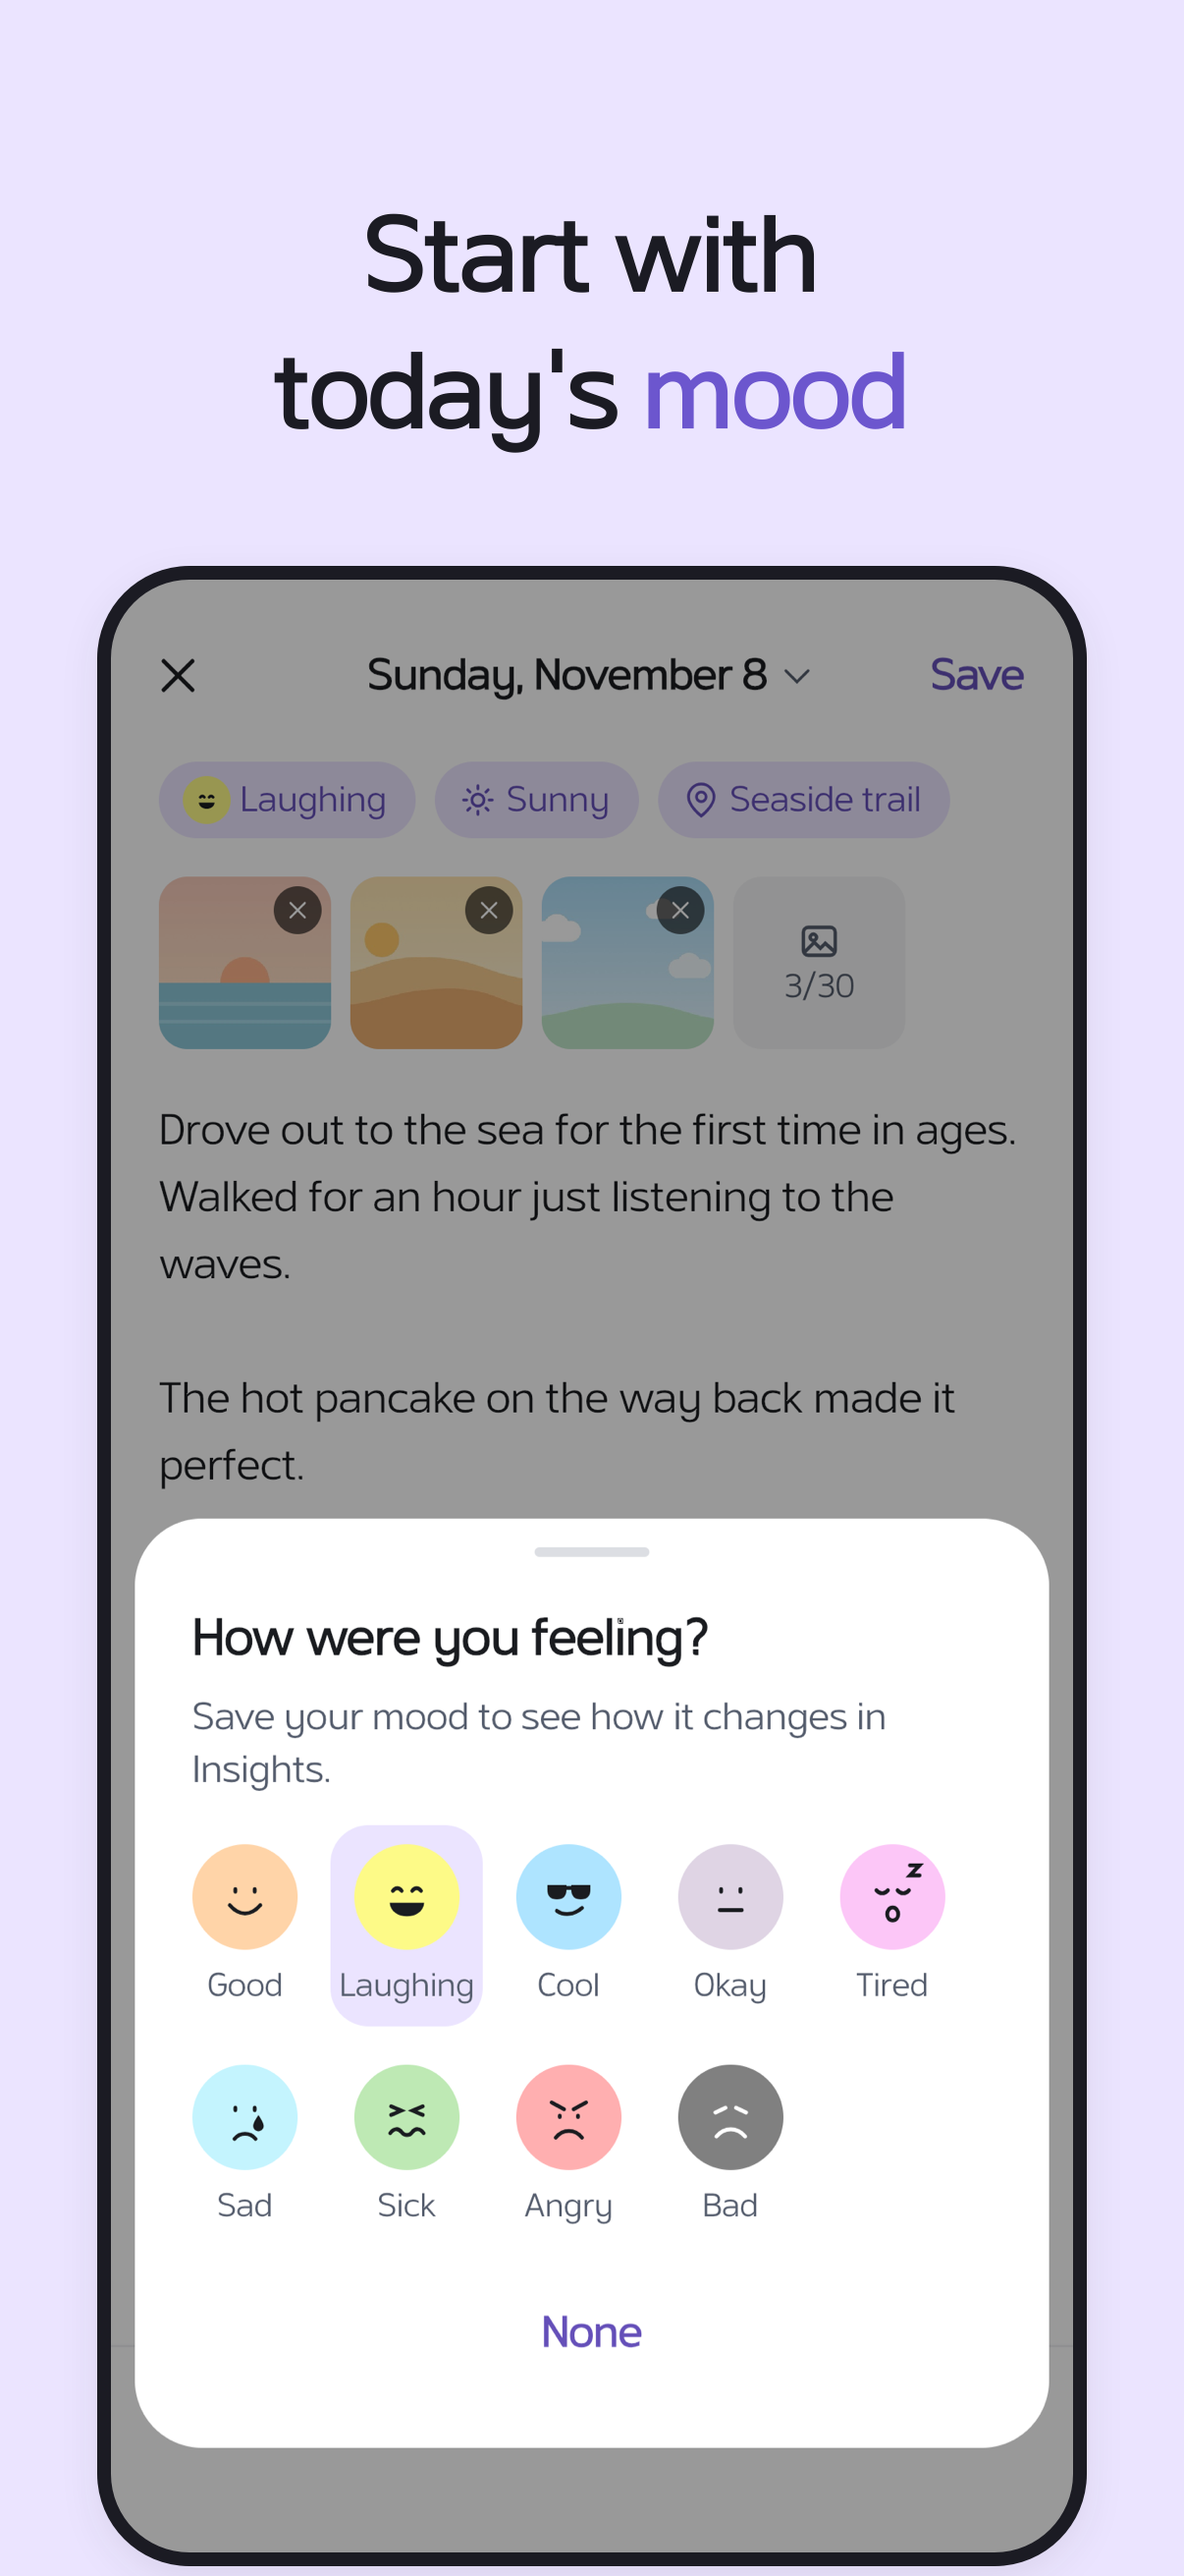
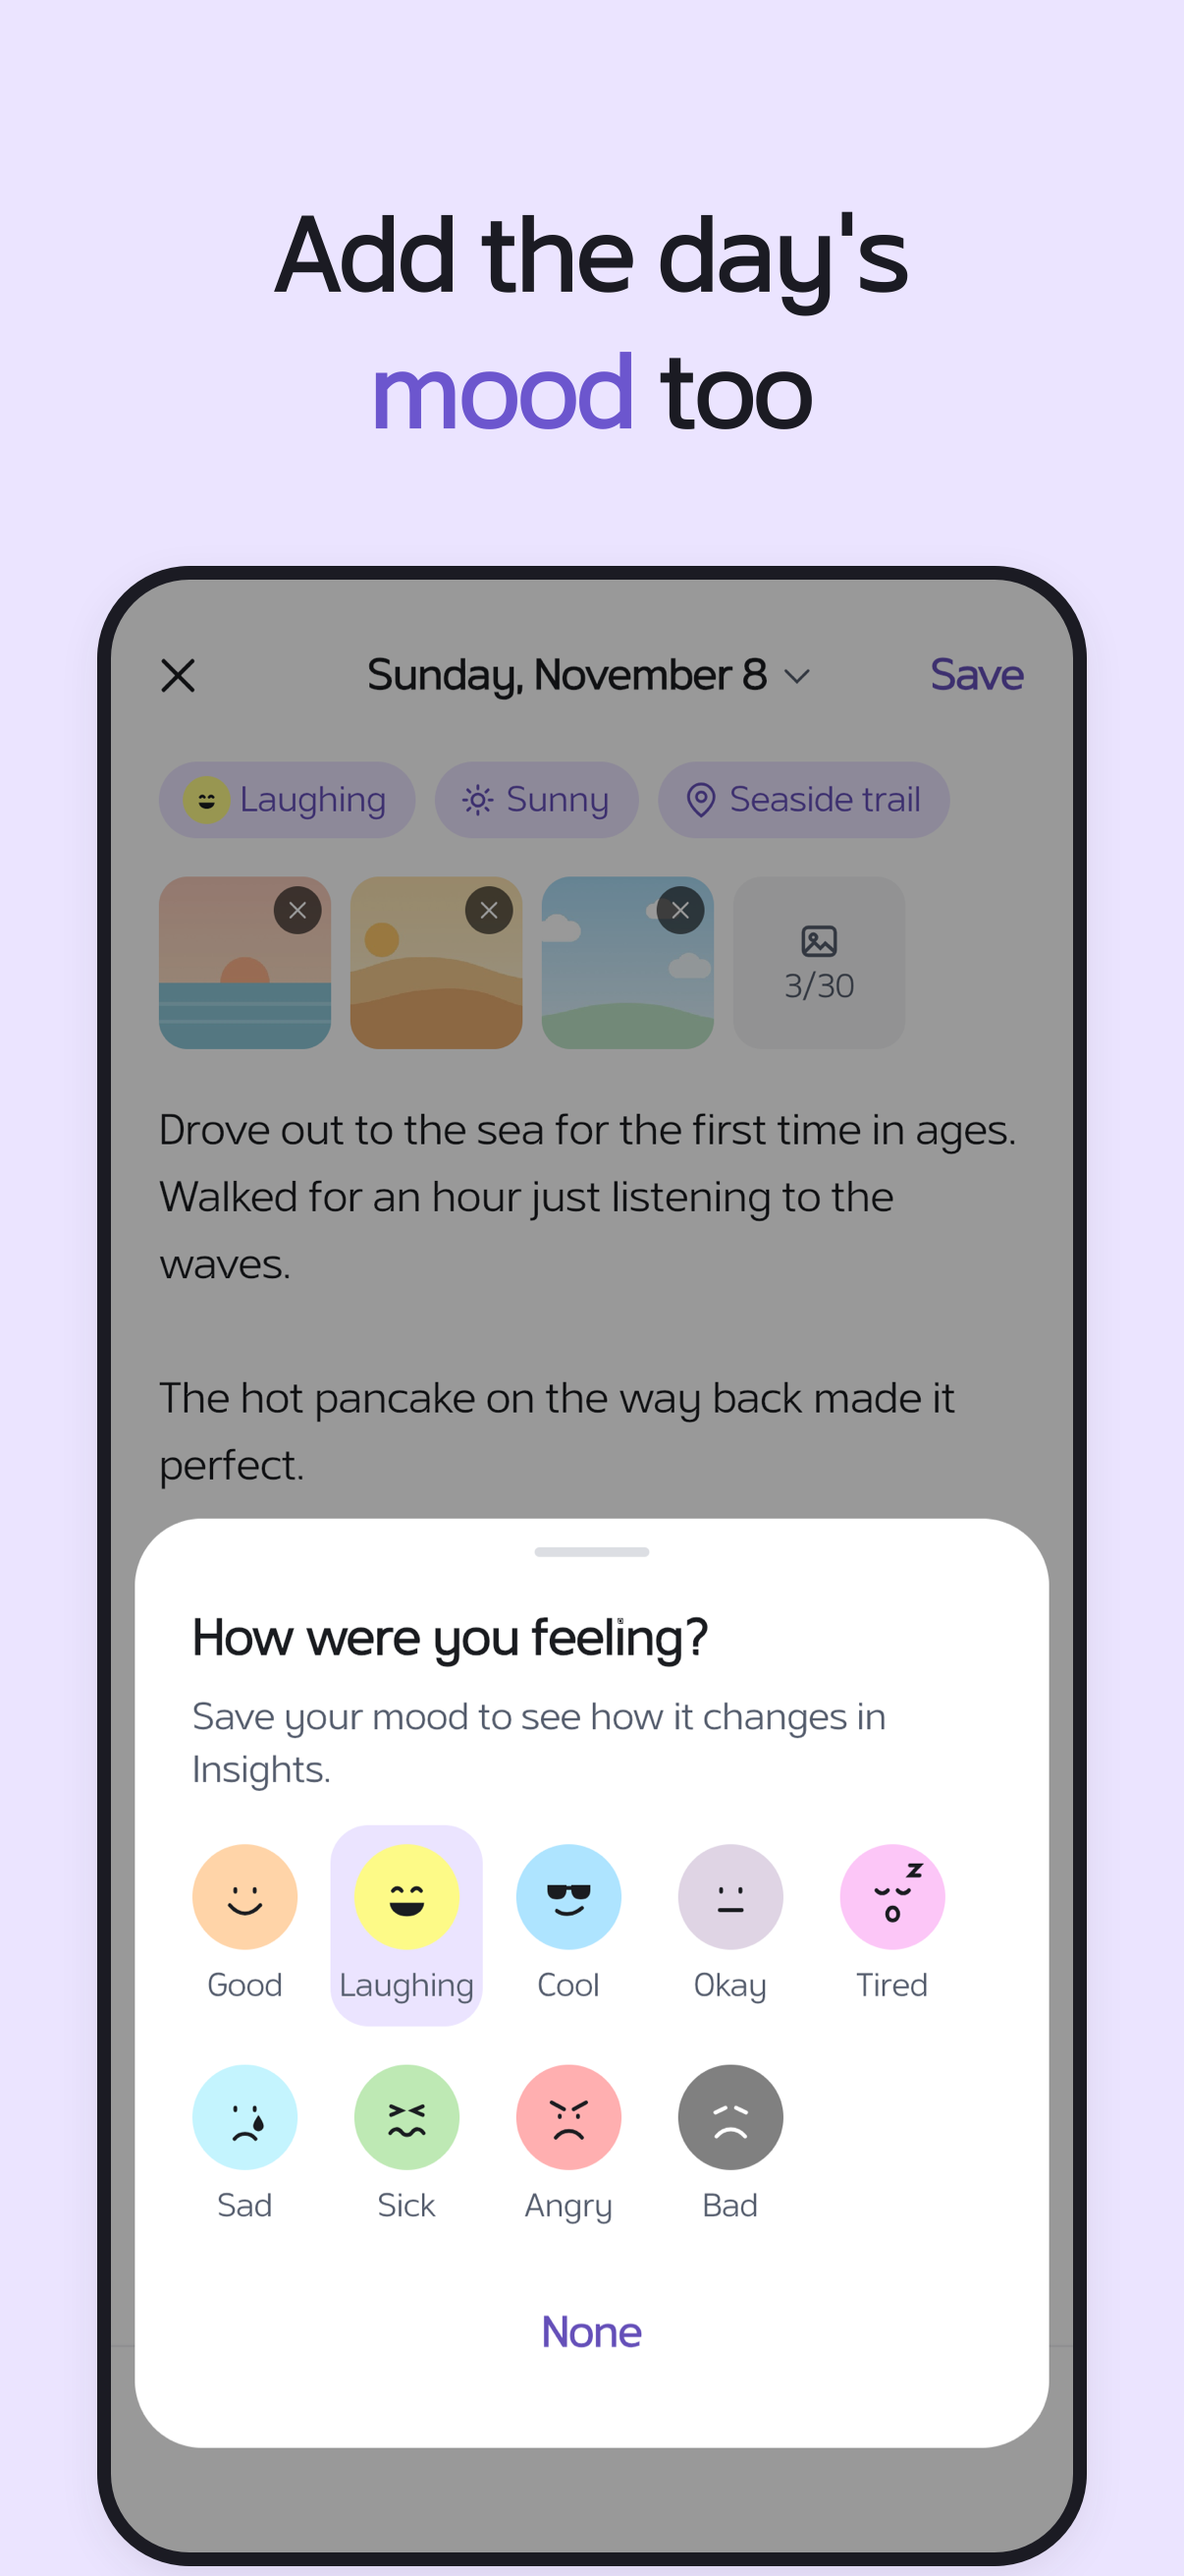
docs(release): 스토어 문구와 스크린샷 머리말을 소개 사이트와 같은 말로
간단한 설명과 App Store 홍보 문구가 "한 줄이면 충분해요" 뒤에
"몇 줄 쓰면 끝"을 이어 말이 엇갈렸고, 설명 첫 항목과 스크린샷 첫 장은
기분을 꼭 골라야 하는 것처럼 읽혔다. 소개 사이트와 같은 기준으로
세 언어를 고쳤다.

- 간단한 설명·홍보 문구·검색 결과 그림: "한 줄이면 오늘 일기 끝"
- 설명: 사진·날씨·장소를 앞에, 기분은 "표시할 수 있어요"
- "기분 흐름"은 "어떤 기분이 많았는지"로
- 스크린샷 쓰기·돌아보기 장과 피처 그래픽 머리말을 바꿔 다시 만듦
- App Store 설명 끝 약관·처리방침은 사이트 주소로

같은 태블릿 머리말이 Play·iPad에 두 번 적혀 있어 한 곳으로 합쳤다.

Changed region(s): [[0.2148, 0.0618, 0.767, 0.1854]]

diff --git a/scripts/store/make_screens.swift b/scripts/store/make_screens.swift
@@ -136,24 +136,24 @@ func save(_ rep: NSBitmapImageRep, _ name: String) {
 // 장식과 기울임 없이 강조는 낱말 하나만
 let phoneSlides: [String: [(String, String, String)]] = [
     "ko": [
-        ("write", "오늘 기분부터\n가볍게 골라 봐요", "기분"),
+        ("write", "그날 기분도\n같이 남겨요", "기분"),
         ("list", "지난 일기가\n한눈에 보여요", "한눈에"),
         ("calendar", "한 달 기분을\n달력으로 봐요", "달력"),
-        ("insight", "내 기분 흐름을\n돌아봐요", "돌아봐요"),
+        ("insight", "어떤 기분이 많았는지\n돌아봐요", "돌아봐요"),
         ("backup", "사진까지\n드라이브에 백업해요", "백업")
     ],
     // 영어·일본어 머리말은 원어민 검수 전
     "en": [
-        ("write", "Start with\ntoday's mood", "mood"),
+        ("write", "Add the day's\nmood too", "mood"),
         ("list", "Past entries\nat a glance", "at a glance"),
         ("calendar", "Your month's moods\non a calendar", "calendar"),
-        ("insight", "Look back on\nyour moods", "Look back")
+        ("insight", "See which moods\ncame up most", "most")
     ],
     "ja": [
-        ("write", "今日の気分から\n気軽に選べます", "気分"),
+        ("write", "その日の気分も\n一緒に残せる", "気分"),
         ("list", "過去の日記が\nひと目でわかる", "ひと目"),
         ("calendar", "1か月の気分を\nカレンダーで", "カレンダー"),
-        ("insight", "気分の流れを\nふりかえる", "ふりかえる")
+        ("insight", "どんな気分が多かったか\nふりかえる", "ふりかえる")
     ]
 ]
 for (index, (name, words, word)) in phoneSlides[language]!.enumerated() where play {
@@ -171,7 +171,7 @@ for (index, (name, words, word)) in phoneSlides[language]!.enumerated() where pl
 
 if language == "ko", play {
 let feature = canvas(1024, 500) {
-    text("바쁜 날에도\n일기를 남겨 봐요", 60, ink, NSRect(x: 76, y: 176, width: 500, height: 170), .left, accented: "일기")
+    text("한 줄이면\n오늘 일기 끝", 60, ink, NSRect(x: 76, y: 176, width: 500, height: 170), .left, accented: "한 줄")
     text("회원가입 없이, 사진까지 내 드라이브에", 25, weak, NSRect(x: 76, y: 118, width: 500, height: 44), .left)
     // 피처 그래픽에는 기기 틀을 넣지 않음(Play 안내)
     phone("list", NSRect(x: 640, y: -640, width: 300, height: 1040), 26, bezel: false)
@@ -179,31 +179,33 @@ let feature = canvas(1024, 500) {
 save(feature, "feature")
 }
 
+// 태블릿·iPad 머리말(가로 한 줄). 폰 머리말과 같은 말을 한 줄로
+let tabletSlides: [String: [(String, String, String)]] = [
+    "ko": [
+        ("write", "그날 기분도 같이 남겨요", "기분"),
+        ("list", "목록과 일기를 나란히 봐요", "나란히"),
+        ("calendar", "한 달 기분을 달력으로 봐요", "달력"),
+        ("insight", "어떤 기분이 많았는지 돌아봐요", "돌아봐요")
+    ],
+    "en": [
+        ("write", "Add the day's mood too", "mood"),
+        ("list", "Your list and entry, side by side", "side by side"),
+        ("calendar", "Your month's moods on a calendar", "calendar"),
+        ("insight", "See which moods came up most", "most")
+    ],
+    "ja": [
+        ("write", "その日の気分も一緒に残せる", "気分"),
+        ("list", "一覧と日記を並べて見られます", "並べて"),
+        ("calendar", "1か月の気分をカレンダーで", "カレンダー"),
+        ("insight", "どんな気分が多かったかふりかえる", "ふりかえる")
+    ]
+]
+
 // 태블릿: 가로 2560×1600, 머리말은 위에 한 줄, 화면은 아래쪽이 잘림
 // Play 7"·10" 태블릿 칸에 같은 이미지 사용. 백업 화면은 드라이브 연결이 필요해 제외
 if play, args.count > 4, args[4] != "-" {
     shotFolder = args[4]
     statusBar = 48
-    let tabletSlides: [String: [(String, String, String)]] = [
-        "ko": [
-            ("write", "오늘 기분부터 가볍게 골라 봐요", "기분"),
-            ("list", "목록과 일기를 나란히 봐요", "나란히"),
-            ("calendar", "한 달 기분을 달력으로 봐요", "달력"),
-            ("insight", "내 기분 흐름을 돌아봐요", "돌아봐요")
-        ],
-        "en": [
-            ("write", "Start with today's mood", "mood"),
-            ("list", "Your list and entry, side by side", "side by side"),
-            ("calendar", "Your month's moods on a calendar", "calendar"),
-            ("insight", "Look back on your moods", "Look back")
-        ],
-        "ja": [
-            ("write", "今日の気分から気軽に選べます", "気分"),
-            ("list", "一覧と日記を並べて見られます", "並べて"),
-            ("calendar", "1か月の気分をカレンダーで", "カレンダー"),
-            ("insight", "気分の流れをふりかえる", "ふりかえる")
-        ]
-    ]
     for (index, (name, words, word)) in tabletSlides[language]!.enumerated() {
         let rep = canvas(2560, 1600) {
             text(words, language == "ja" ? 88 : 96, ink, NSRect(x: 80, y: 1270, width: 2400, height: 160), .center, accented: word)
@@ -229,26 +231,6 @@ if ios {
     if args.count > 4, args[4] != "-" {
         shotFolder = args[4]
         statusBar = 48
-        let tabletSlides: [String: [(String, String, String)]] = [
-            "ko": [
-                ("write", "오늘 기분부터 가볍게 골라 봐요", "기분"),
-                ("list", "목록과 일기를 나란히 봐요", "나란히"),
-                ("calendar", "한 달 기분을 달력으로 봐요", "달력"),
-                ("insight", "내 기분 흐름을 돌아봐요", "돌아봐요")
-            ],
-            "en": [
-                ("write", "Start with today's mood", "mood"),
-                ("list", "Your list and entry, side by side", "side by side"),
-                ("calendar", "Your month's moods on a calendar", "calendar"),
-                ("insight", "Look back on your moods", "Look back")
-            ],
-            "ja": [
-                ("write", "今日の気分から気軽に選べます", "気分"),
-                ("list", "一覧と日記を並べて見られます", "並べて"),
-                ("calendar", "1か月の気分をカレンダーで", "カレンダー"),
-                ("insight", "気分の流れをふりかえる", "ふりかえる")
-            ]
-        ]
         for (index, (name, words, word)) in tabletSlides[language]!.enumerated() {
             let rep = canvas(2752, 2064) {
                 text(words, language == "ja" ? 96 : 104, ink, NSRect(x: 80, y: 1700, width: 2592, height: 180), .center, accented: word)
@@ -334,9 +316,9 @@ if let page {
 if search {
     statusBar = 150
     let lines: [String: (String, String)] = [
-        "ko": ("하루 한 줄이면\n충분해요", "한 줄"),
-        "en": ("One line a day\nis enough", "One line"),
-        "ja": ("1日1行で\n十分です", "1行")
+        "ko": ("한 줄이면\n오늘 일기 끝", "한 줄"),
+        "en": ("Today's entry,\nin one line", "one line"),
+        "ja": ("1行で\n今日の日記は完了", "1行")
     ]
     let (words, word) = lines[language]!
     // 검색 카드는 작게 보여 문구를 크게
